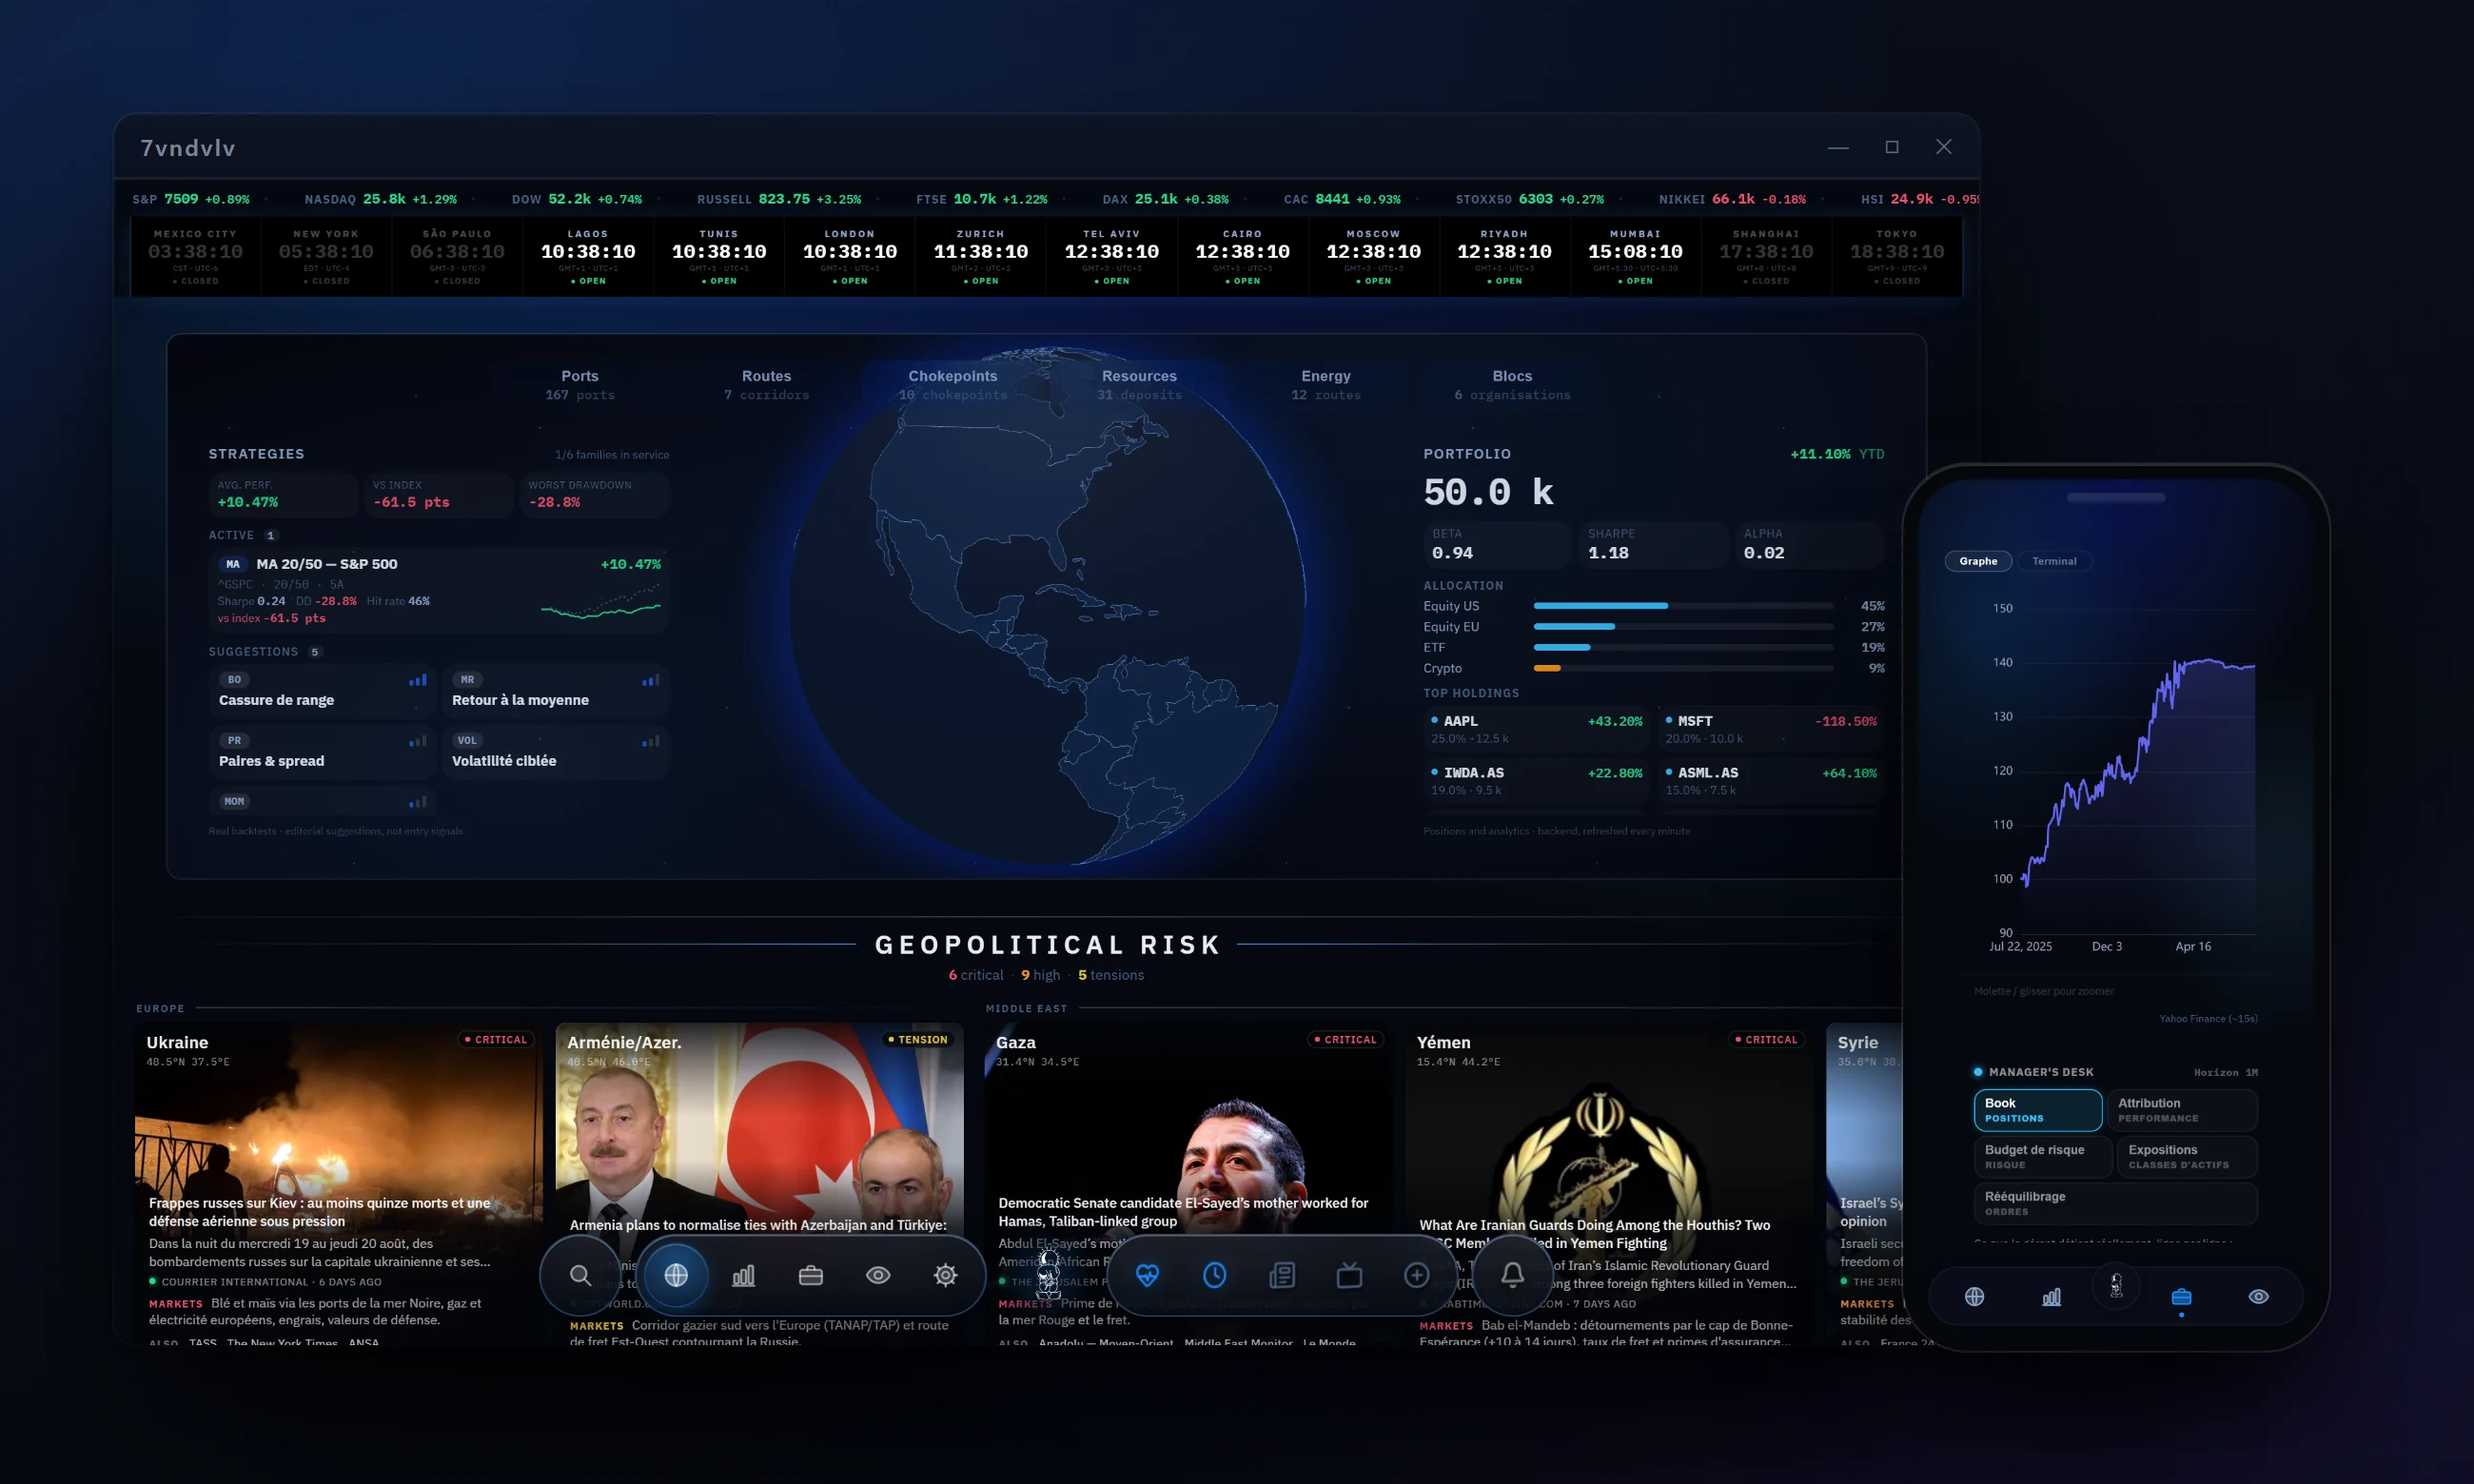
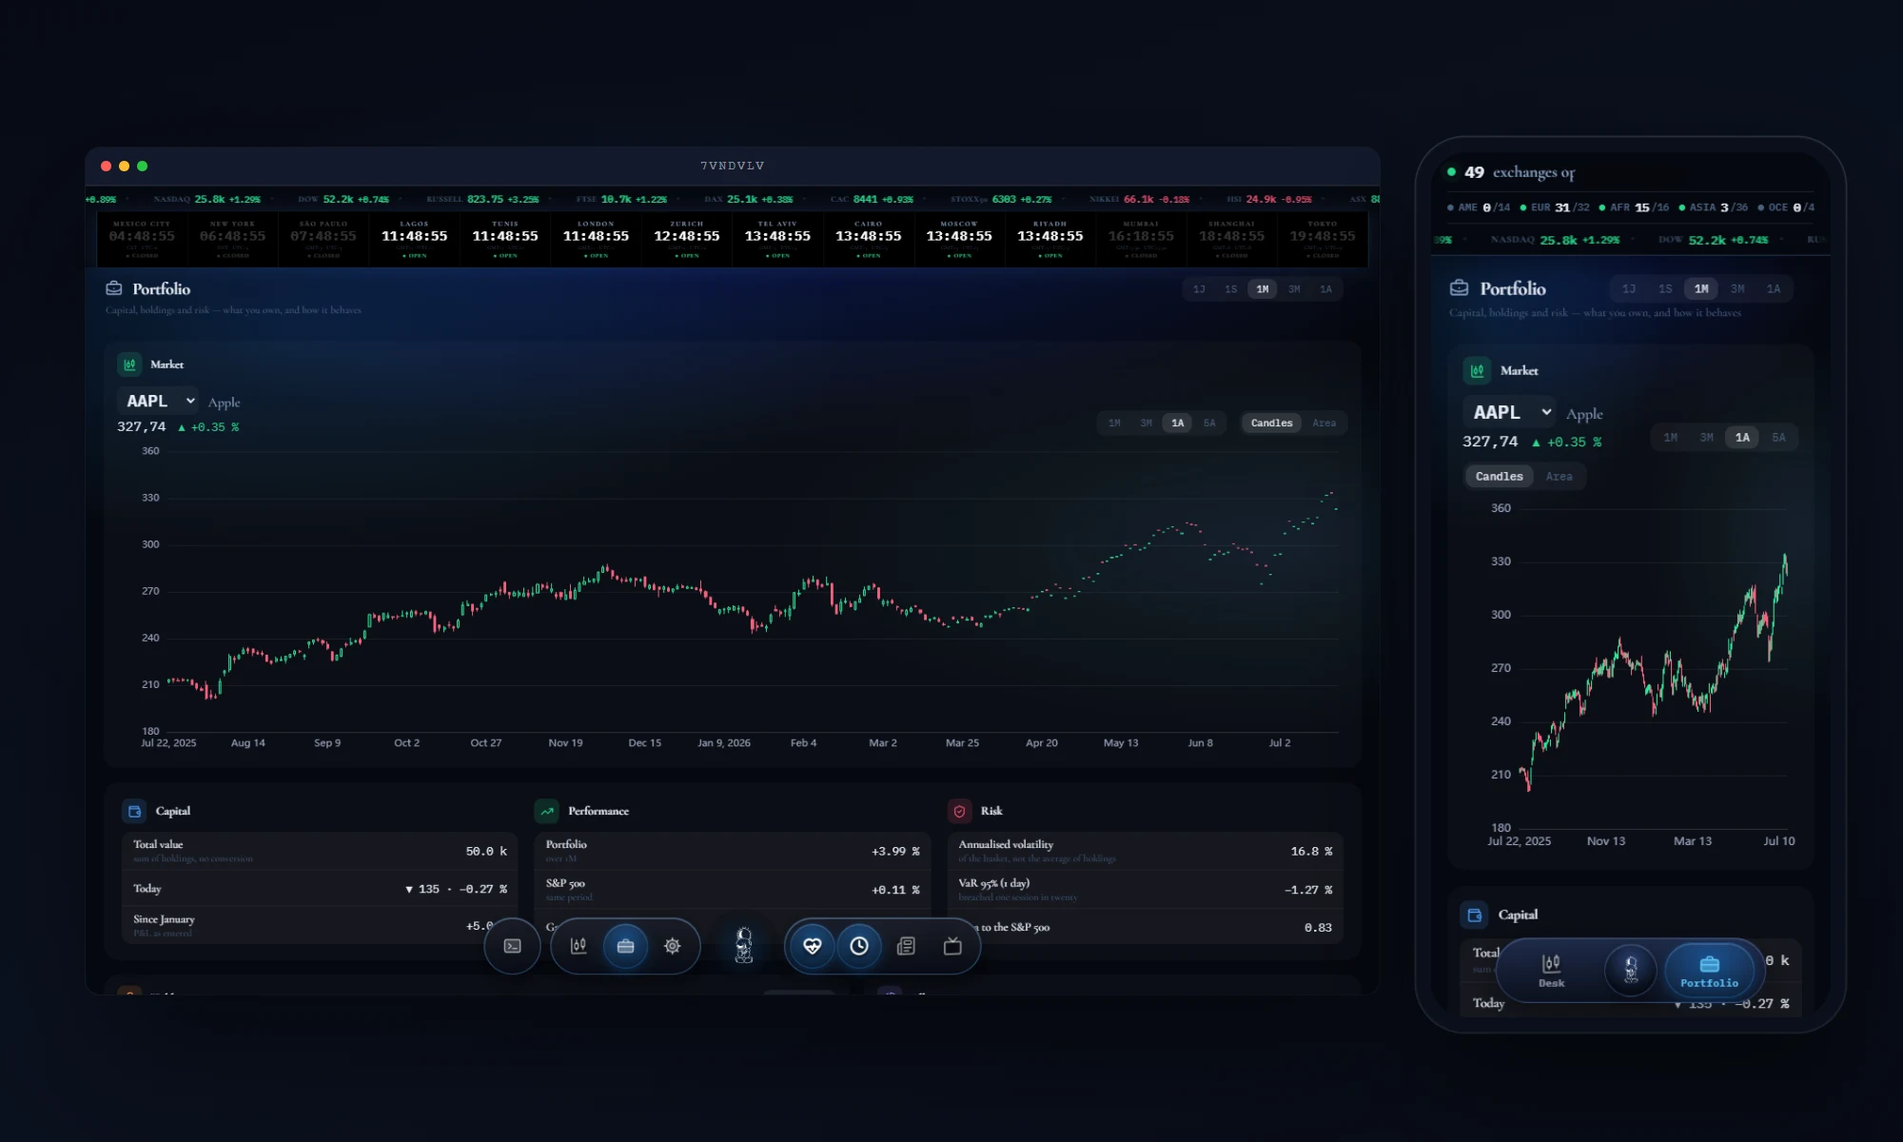
docs: hero montage now shows Portfolio, desktop and mobile
Replaces the Global overview + random chart composite with real Portfolio
captures from the demo build (127.0.0.1:5174, --mode demo), taken via
Playwright: desktop in a window-chrome frame, mobile in a phone bezel, both
on the app's own dark background. 202 KB -> 80.6 KB.

Caption updated to match -- it no longer claims the global overview is what
desktop shows.

diff --git a/README.md b/README.md
@@ -2,10 +2,10 @@
 
 # 7vndvlv
 
-**One workspace for the entire investing loop.**
+**A platform for trading with code.**
 
-Global markets, live news, an order desk, price alerts — and a bench to backtest
-and compare systematic strategies, including Python you write yourself.
+Write a Python strategy, run it through a sandboxed backtest engine and
+send it to a real execution desk.
 
 [![Downloads — Windows and Android, v0.1.0](docs/download-button.svg)](../../releases/latest)
 
@@ -15,9 +15,9 @@ In development · **v0.1.0** · Windows · Android · Source private
 
 ![7vndvlv on desktop and on a phone, side by side](docs/hero.webp)
 
-*One React client, two shells — the global overview on Windows, the portfolio
-and manager's desk on the phone, in the offline demonstration mode. Built solo
-alongside a master's in finance, since June 2026.*
+*One React client, two shells — the portfolio on Windows and on a phone, in
+the offline demonstration mode. Built solo alongside a master's in finance,
+since June 2026.*
 
 ---
 
